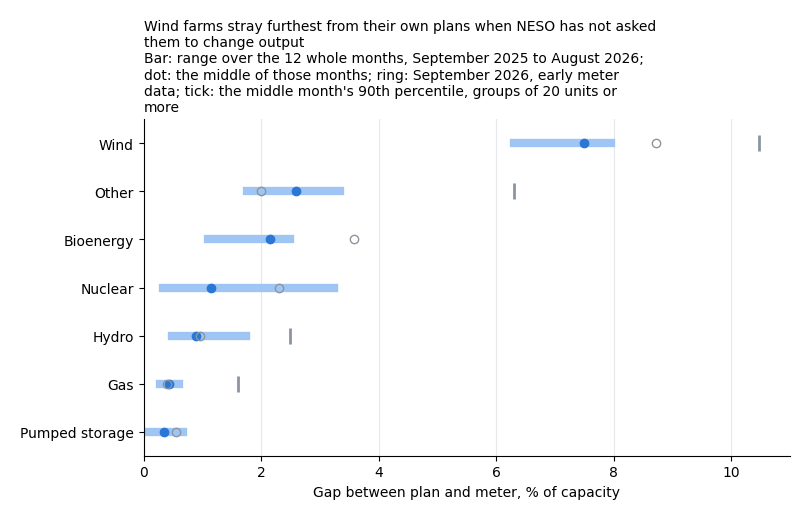
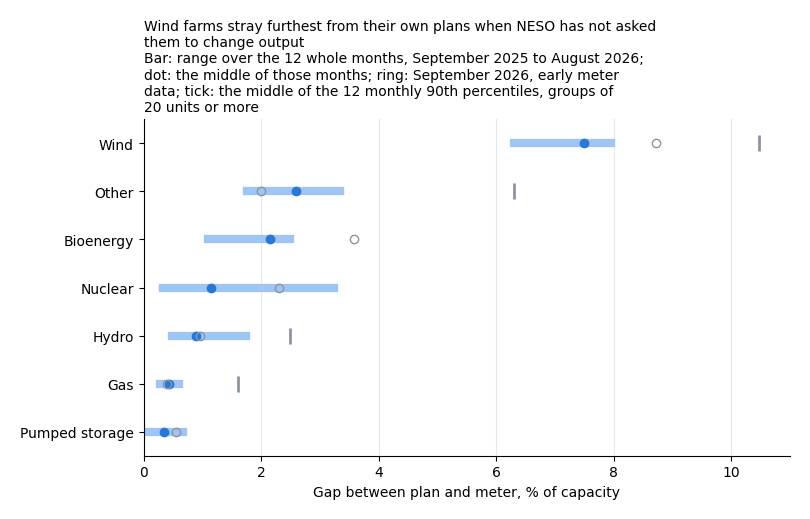
Results page: review R11 fixes, and no station names
The opening says each rule was recorded before its result was read, and
the details flag where data was explored first (Q24, Q25, Q29, Q30). Q23's
figures name their whole months, and only wind and bioenergy rose above
their range in September 2026. The stored-forecast check is dated 17 August
to 10 September 2026. Q2 credits suppliers with the 77% of the later pair
only, and names no station. The footer says what links back to what. Q23's
tick is the middle of the 12 monthly 90th percentiles; Q3's zero groups are
described from their quartiles; Q25 describes rather than answers yes; the
glossary says supplier accounts are units too and only Q2 covers them.

Changed region(s): [[0.3704, 0.1541, 0.7716, 0.185], [0.1543, 0.185, 0.3395, 0.2158]]

diff --git a/site/index.html b/site/index.html
@@ -269,13 +269,13 @@
   <section aria-labelledby="found-title">
     <h2 id="found-title">What we found</h2>
     <ul class="findings">
-      <li><strong>Wind strays furthest from its own plan.</strong> In half-hours when NESO had not asked them to change output, the typical wind farm missed its plan by 6.3 to 8.0% of its capacity each month; the typical unit of every other type, by under 3.5%. <a href="#q23">Q23</a></li>
+      <li><strong>Wind strays furthest from its own plan.</strong> In half-hours when NESO had not asked them to change output, the typical wind farm missed its plan by 6.3 to 8.0% of its capacity in every whole month from September 2025 to August 2026; the typical unit of every other type, by under 3.5%. <a href="#q23">Q23</a></li>
       <li><strong>Most under-delivery comes with no published outage.</strong> About a quarter (24%) came with one; for wind, about a tenth. <a href="#q5">Q5</a></li>
-      <li><strong>Almost all of NESO's instructions to wind are flagged as managing the network:</strong> 97% of the energy they moved. <a href="#q24">Q24</a></li>
+      <li><strong>NESO flags almost all the energy its instructions move at wind farms as managing the network:</strong> 97%. <a href="#q24">Q24</a></li>
       <li><strong>The carbon forecast's misses barely track any of it.</strong> In the fifth of half-hours with the biggest carbon misses, under-delivery was only 5% larger than in the fifth with the smallest; the test needed 25%. Misses in NESO's demand and wind forecasts show only weak links too. <a href="#q28">Q28</a>, <a href="#q8">Q8</a>, <a href="#q30">Q30</a></li>
     </ul>
-    <p class="caveat">The carbon forecast tested is the one value NESO's API keeps for each past half-hour, not a day-ahead forecast. NESO does not document when it is made; where GridSkew's archive can check it (from 17 August 2026), it matches the forecast as it stood at about the end of the half-hour. Q4 repeats the test on GridSkew's own archive of every forecast, where the timing is known.</p>
-    <p>Every reading rule was recorded before its data was read, and each result was read once. "How we measured it", under each answer, gives the rule, the numbers and the dates.</p>
+    <p class="caveat">The carbon forecast tested is the one value NESO's API keeps for each past half-hour, not a day-ahead forecast. NESO does not document when it is made; where GridSkew's archive could check it (17 August to 10 September 2026), it matched the forecast as it stood at about the end of the half-hour. Q4 repeats the test on GridSkew's own archive of every forecast, where the timing is known.</p>
+    <p>Every reading rule was recorded before its result was read, and each result was read once; where the data had been explored first, the details say so. "How we measured it", under each answer, gives the rule, the numbers and the dates.</p>
   </section>
 
   <section class="glossary" aria-labelledby="glossary-title">
@@ -303,7 +303,7 @@
       </div>
       <div>
         <dt>Unit (BM unit)</dt>
-        <dd>A generator, battery, pumped-storage station or interconnector link in the Balancing Mechanism. We study every unit with a published fuel type: not the whole grid, and some are closed or idle.</dd>
+        <dd>A generator, battery, pumped-storage station, interconnector link or supplier's customer account in the Balancing Mechanism. Q2 covers every unit, suppliers' accounts included; the other questions cover units with a published fuel type: not the whole grid, and some are closed or idle.</dd>
       </div>
       <div>
         <dt>Fuel group, and "other"</dt>
@@ -315,7 +315,7 @@
       </div>
       <div>
         <dt>Stored forecast</dt>
-        <dd>The one carbon forecast NESO's API keeps for each past half-hour. Where GridSkew's archive can check it (from 17 August 2026), it matches the forecast as it stood at about the end of the half-hour.</dd>
+        <dd>The one carbon forecast NESO's API keeps for each past half-hour. Where GridSkew's archive could check it (17 August to 10 September 2026), it matched the forecast as it stood at about the end of the half-hour. After that, half the stored values match none of the archive's polls.</dd>
       </div>
       <div>
         <dt>90% range</dt>
@@ -338,10 +338,10 @@
 
   <article id="q23">
     <h3>When NESO has not asked a unit to change its output, how closely does it follow its own plan? <span class="tag">Q23</span></h3>
-    <p class="answer">Wind strays most. From September 2025 to August 2026, the typical wind farm missed its plan by <strong>6.3 to 8.0%</strong> of its capacity each month, and the typical unit of every other type by under 3.5%. September 2026, on early meter data, was higher; it is provisional and not explained.</p>
+    <p class="answer">Wind strays most. From September 2025 to August 2026, the typical wind farm missed its plan by <strong>6.3 to 8.0%</strong> of its capacity in every whole month, and the typical unit of every other type by under 3.5%. In September 2026, on early meter data, wind and bioenergy rose above their whole-month range; this is provisional and not explained.</p>
     <figure>
       <div class="chart" id="q23-chart"></div>
-      <figcaption>Only half-hours with no instruction in force. Bar: the range over the 12 whole months, September 2025 to August 2026. Dot: the middle of those months. Ring: September 2026, on early meter data. Tick: the middle month's 90th percentile, for groups of 20 units or more. Coal (closed units) is left out. Source: Elexon BMRS.</figcaption>
+      <figcaption>Only half-hours with no instruction in force. Bar: the range over the 12 whole months, September 2025 to August 2026. Dot: the middle of those months. Ring: September 2026, on early meter data. Tick: the middle of the 12 monthly 90th percentiles, for groups of 20 units or more. Coal (closed units) is left out. Source: Elexon BMRS.</figcaption>
     </figure>
     <details class="method">
       <summary>How we measured it</summary>
@@ -364,7 +364,7 @@
 
   <article id="q3">
     <h3>Does each type of power station usually produce more or less than it planned? <span class="tag">Q3</span></h3>
-    <p class="answer">Slightly less, with wide spreads. Wind, gas, nuclear and bioenergy usually produced a little less than planned: wind's middle value is <strong>0.3 MWh</strong> short per half-hour (about 0.6 MW). But a quarter of wind's half-hours fell over 2.9 MWh short and a quarter ran over 1 MWh above. Groups at zero are mostly idle or closed units.</p>
+    <p class="answer">Slightly less, with wide spreads. Wind, gas, nuclear and bioenergy usually produced a little less than planned: wind's middle value is <strong>0.3 MWh</strong> short per half-hour (about 0.6 MW). But a quarter of wind's half-hours fell over 2.9 MWh short and a quarter ran over 1 MWh above. Hydro, pumped storage and interconnectors sit at zero: at least a quarter of their half-hours matched the plan almost exactly.</p>
     <figure>
       <div class="chart" id="q3-chart"></div>
       <figcaption>Bar: the middle half of all units' half-hours. Dot: the middle value, 22 August 2025 to 26 September 2026, on the latest settlement run held. Ring and square: one week, 10 to 16 August 2026, on one-week and two-month meter data (Q22). Coal (closed units) is left out; interconnectors are links whose metered figure is an allocation against a plan of zero. Source: Elexon BMRS.</figcaption>
@@ -515,7 +515,7 @@
 
   <article id="q25">
     <h3>Do batteries and pumped storage get shorter instructions than power stations? <span class="tag">Q25</span></h3>
-    <p class="answer">Yes. About one in five instructions to the other group, mostly batteries, is short (<strong>21%</strong>; 21.4% as first read), and one in six to pumped storage. For gas it is about 1 in 480, and less for hydro, bioenergy and wind.</p>
+    <p class="answer">Far more often. About one in five instructions to the other group, mostly batteries, is short (<strong>21%</strong>; 21.4% as first read), and one in six to pumped storage. For gas it is about 1 in 480, and less for hydro, bioenergy and wind.</p>
     <figure>
       <div class="chart" id="q25-chart"></div>
       <figcaption>Share of instructions under 10 minutes, on a log scale. Dot: joined with the unit's follow-on instructions, Elexon's test. Ring: the instruction on its own. 22 August 2025 to 30 September 2026. Source: Elexon BMRS.</figcaption>
@@ -528,7 +528,7 @@
         <dt>Data</dt>
         <dd>22 August 2025 to 30 September 2026, with data to 30 September 2026 22:30 UTC. Read 15 October 2026, 22:01 UTC. The figures shown join the two halves of instructions that cross midnight, from a run on 25 October 2026 on the read's data; the table gives the read's own figures beside them. Battery units with no published fuel type are not in the other group.</dd>
         <dt>Rule</dt>
-        <dd>Recorded 12 October 2026; the joined measure was added before any read of it. <a href="https://github.com/JayWatNorm/gridskew/blob/main/docs/research-questions.md#q25-how-fragmented-are-instructions-to-units-typed-other-mostly-batteries-and-pumped-storage-compared-with-thermal-plant">Full rule</a> · query <code>q25_instruction_fragmentation.sql</code> · saved outputs: <a href="results/q25_instruction_fragmentation_corrected.csv">shown</a>, <a href="results/q25_instruction_fragmentation.csv">as first read</a> · <a href="results/q25_short_instructions_by_fuel_group.csv">chart data</a></dd>
+        <dd>Recorded 12 October 2026, after an exploration had read the instruction-on-its-own measure; the joined measure, the result, was added before any read of it. <a href="https://github.com/JayWatNorm/gridskew/blob/main/docs/research-questions.md#q25-how-fragmented-are-instructions-to-units-typed-other-mostly-batteries-and-pumped-storage-compared-with-thermal-plant">Full rule</a> · query <code>q25_instruction_fragmentation.sql</code> · saved outputs: <a href="results/q25_instruction_fragmentation_corrected.csv">shown</a>, <a href="results/q25_instruction_fragmentation.csv">as first read</a> · <a href="results/q25_short_instructions_by_fuel_group.csv">chart data</a></dd>
       </dl>
       <div class="table-wrap">
         <table>
@@ -635,7 +635,7 @@
         <dt>Coverage</dt>
         <dd>21 first wind outturns were published more than 30 minutes late, 3 of them zero; those over an hour late or zero all fall on six dates (27 November 2025; 15 January, 24 February, 4 June, 7 July and 6 August 2026). GridSkew's data also hold an impossible 0 g/kWh carbon actual for 6 August 2026, 11:00 UTC, which falls in Q29's August 2026 cell.</dd>
         <dt>Rule</dt>
-        <dd>Recorded 27 October 2026, before any wind data was held. <a href="https://github.com/JayWatNorm/gridskew/blob/main/docs/research-questions.md#q30-is-the-size-of-the-miss-between-wind-outturn-and-nesos-latest-wind-forecast-associated-with-the-size-of-the-error-in-the-apis-stored-carbon-forecast-from-august-2025-to-august-2026">Full rule</a> · query <code>q30_wind_vs_carbon_error.sql</code> · <a href="results/q30_wind_vs_carbon_error.csv">saved output</a> · <a href="results/q30_rank_correlations.csv">chart data</a></dd>
+        <dd>Recorded 27 October 2026, before any wind data was held; one day of wind values (22 August 2025) was seen in checks of the data feed before the read. <a href="https://github.com/JayWatNorm/gridskew/blob/main/docs/research-questions.md#q30-is-the-size-of-the-miss-between-wind-outturn-and-nesos-latest-wind-forecast-associated-with-the-size-of-the-error-in-the-apis-stored-carbon-forecast-from-august-2025-to-august-2026">Full rule</a> · query <code>q30_wind_vs_carbon_error.sql</code> · <a href="results/q30_wind_vs_carbon_error.csv">saved output</a> · <a href="results/q30_rank_correlations.csv">chart data</a></dd>
       </dl>
     </details>
   </article>
@@ -646,12 +646,12 @@
 
   <article id="q2">
     <h3>How much do metered figures change when Elexon recalculates settlement with later meter data? <span class="tag">Q2</span></h3>
-    <p class="answer">Materially, mostly in suppliers' customer accounts: 3.4% of the energy moved between the one-week and three-week runs, and <strong>2.3%</strong> between the three-week and two-month runs. Transmission-connected and embedded units changed in under 1% of half-hours, but three gas units (Keadby 1, Pembroke 4 and 5) moved by thousands of MWh.</p>
+    <p class="answer">Materially: 3.4% of the energy moved between the one-week and three-week runs, and <strong>2.3%</strong> between the three-week and two-month runs, 77% of that in suppliers' customer accounts. Transmission-connected and embedded units changed in under 1% of half-hours, but three gas units moved thousands of MWh.</p>
     <figure>
       <div class="chart" id="q2-chart"></div>
-      <figcaption>Share of the energy that moved between the three-week and two-month runs, by unit type; settlement dates 10 to 16 August 2026. Three gas units make up 18 of the 20 points of transmission-connected and embedded units. Source: Elexon BMRS.</figcaption>
+      <figcaption>Share of the energy that moved between the three-week and two-month runs, by unit type; settlement dates 10 to 16 August 2026. Among transmission-connected and embedded units, three gas units moved 18% of it: nine-tenths of this group's 20%. Source: Elexon BMRS.</figcaption>
     </figure>
-    <p class="note">At Pembroke 4 and 5, the three-week run filled two days the one-week run had at zero, and the two-month run zeroed one of them. At Keadby 1, the three-week run repeated the one-week values, and the two-month run replaced every value from 11 to 16 August.</p>
+    <p class="note">At two of those gas units, the three-week run filled two days the one-week run had at zero, and the two-month run zeroed one of them. At the third, the three-week run repeated the one-week values, and the two-month run replaced every value from 11 to 16 August.</p>
     <details class="method">
       <summary>How we measured it</summary>
       <dl>
@@ -702,7 +702,7 @@
 </main>
 
 <footer>
-  <p class="stamp">Results as of 27 October 2026, from GridSkew <code>@GRIDSKEW_COMMIT@</code>; each figure comes from the query named beside it, read on the date given. Figures are rounded for reading; the CSV files hold full precision. <a href="https://github.com/JayWatNorm/gridskew/blob/main/docs/research-questions.md">Every rule</a></p>
+  <p class="stamp">Results as of 27 October 2026, from GridSkew <code>@GRIDSKEW_COMMIT@</code>. Each result comes from the query named beside it, read on the date given, with its saved output linked; a few supporting counts come from counts-only checks or unit-level outputs that are not published. Figures are rounded for reading; the CSV files hold full precision. <a href="https://github.com/JayWatNorm/gridskew/blob/main/docs/research-questions.md">Every rule</a></p>
   <p>Contains BMRS data © Elexon Limited copyright and database right 2026. <a href="https://www.elexon.co.uk/data/balancing-mechanism-reporting-agent/copyright-licence-bmrs-data/">BMRS licence</a></p>
   <p>Carbon intensity data: <a href="https://carbonintensity.org.uk/">NESO Carbon Intensity API</a>, <a href="https://creativecommons.org/licenses/by/4.0/">CC BY 4.0</a>, modified: aggregated by GridSkew.</p>
   <p>Neither provider endorses this project.</p>

diff --git a/scripts/readme_charts.py b/scripts/readme_charts.py
@@ -1137,7 +1137,8 @@ def fewest_units(rows):
 
 
 def typical_percentile(rows):
-    """The middle month's 90th percentile, for groups thick enough for one."""
+    """The middle of the monthly 90th percentiles, for groups thick enough for
+    one."""
     if fewest_units(rows) < Q23_UNITS_FOR_A_PERCENTILE:
         return ""
     return fixed(statistics.median(column_values(rows, "p90_absolute_pct")), 4)
@@ -1214,8 +1215,8 @@ def draw_uninstructed_gaps(rows, path):
         [
             "Bar: range over the 12 whole months, September 2025 to August 2026; "
             "dot: the middle of those months; ring: September 2026, early meter "
-            "data; tick: the middle month's 90th percentile, groups of 20 units "
-            "or more"
+            "data; tick: the middle of the 12 monthly 90th percentiles, groups "
+            "of 20 units or more"
         ],
     )
     save_figure(figure, path)
@@ -1242,7 +1243,9 @@ def write_q23_chart(rows, output):
         altair.Tooltip(
             "lowest_month_pct:Q", title="Lowest whole month, %", format=".1f"
         ),
-        altair.Tooltip("middle_month_pct:Q", title="Middle month, %", format=".1f"),
+        altair.Tooltip(
+            "middle_month_pct:Q", title="Middle of the 12 months, %", format=".1f"
+        ),
         altair.Tooltip(
             "highest_month_pct:Q", title="Highest whole month, %", format=".1f"
         ),
@@ -1251,7 +1254,7 @@ def write_q23_chart(rows, output):
         ),
         altair.Tooltip(
             "middle_month_p90_pct:Q",
-            title="90th percentile, middle month, %",
+            title="Middle of the 12 monthly 90th percentiles, %",
             format=".1f",
         ),
     ]

diff --git a/docs/research-questions.md b/docs/research-questions.md
@@ -77,10 +77,10 @@ contextual explanations.
 - **`error_final`:** the error of the final forecast in GridSkew's own
   archive of every forecast (Q1's final forecast), at any horizon.
 - **`error_api_final`:** the error of the stored forecast, the one value
-  NESO's API keeps for each past half-hour; where GridSkew's archive can
-  check it (from 17 August 2026), it matches the forecast as it stood at
-  about the end of the half-hour. The archive starts on 17 August 2026, so
-  the year before it has only this value.
+  NESO's API keeps for each past half-hour; where GridSkew's archive could
+  check it (17 August to 10 September 2026), it matched the forecast as it
+  stood at about the end of the half-hour. The archive starts on 17 August
+  2026, so the year before it has only this value.
 
 ### Forecast read controls
 
